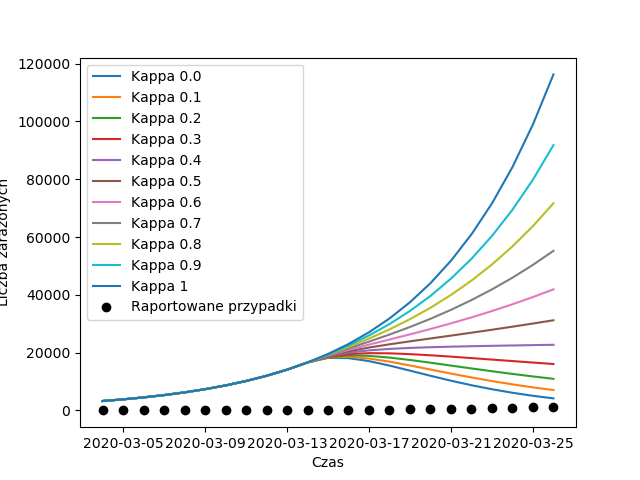
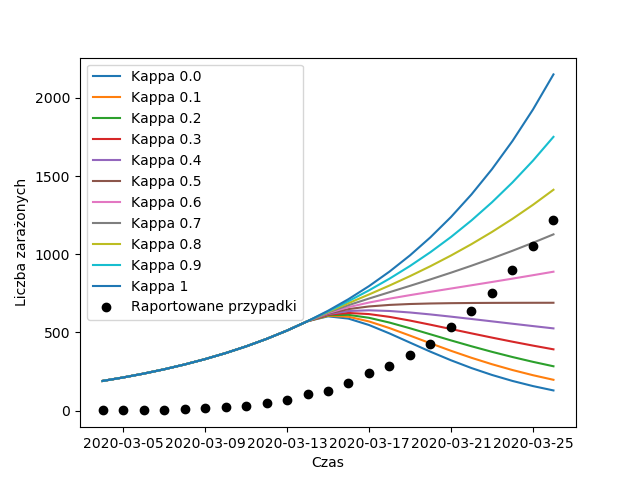
Naprawa błędu z R_0

diff --git a/plots.py b/plots.py
@@ -39,7 +39,7 @@ def R_0andKappa():
             date_span.append(date)
         
         for kappa in kappa_list:
-            symulacja = model.model_diff_solve(variables.date, seed = ppot[0], kappa = kappa)
+            symulacja = model.model_diff_solve(variables.date, seed = ppot[0], kappa = kappa, R_0 = R_0)
             I = []
             for i in symulacja[1:-1]:
                 I.append(i[2])
@@ -65,7 +65,7 @@ def Global_View(kind,mouths):
     ppot ,pcov = model.data_fit()
     time_span = np.linspace(int(ppot[0]),30*mouths,30*mouths)
     for kappa in global_view_kappa_list:
-        symulacja = model.model_diff_solve(time_span,seed = ppot[0], kappa = kappa)
+        symulacja = model.model_diff_solve(time_span,seed = ppot[0], kappa = kappa, R_0 = 2.6)
         if kind == 'H':
             a,label = 3, 'Hospitalizowani'
         elif kind == 'V':
